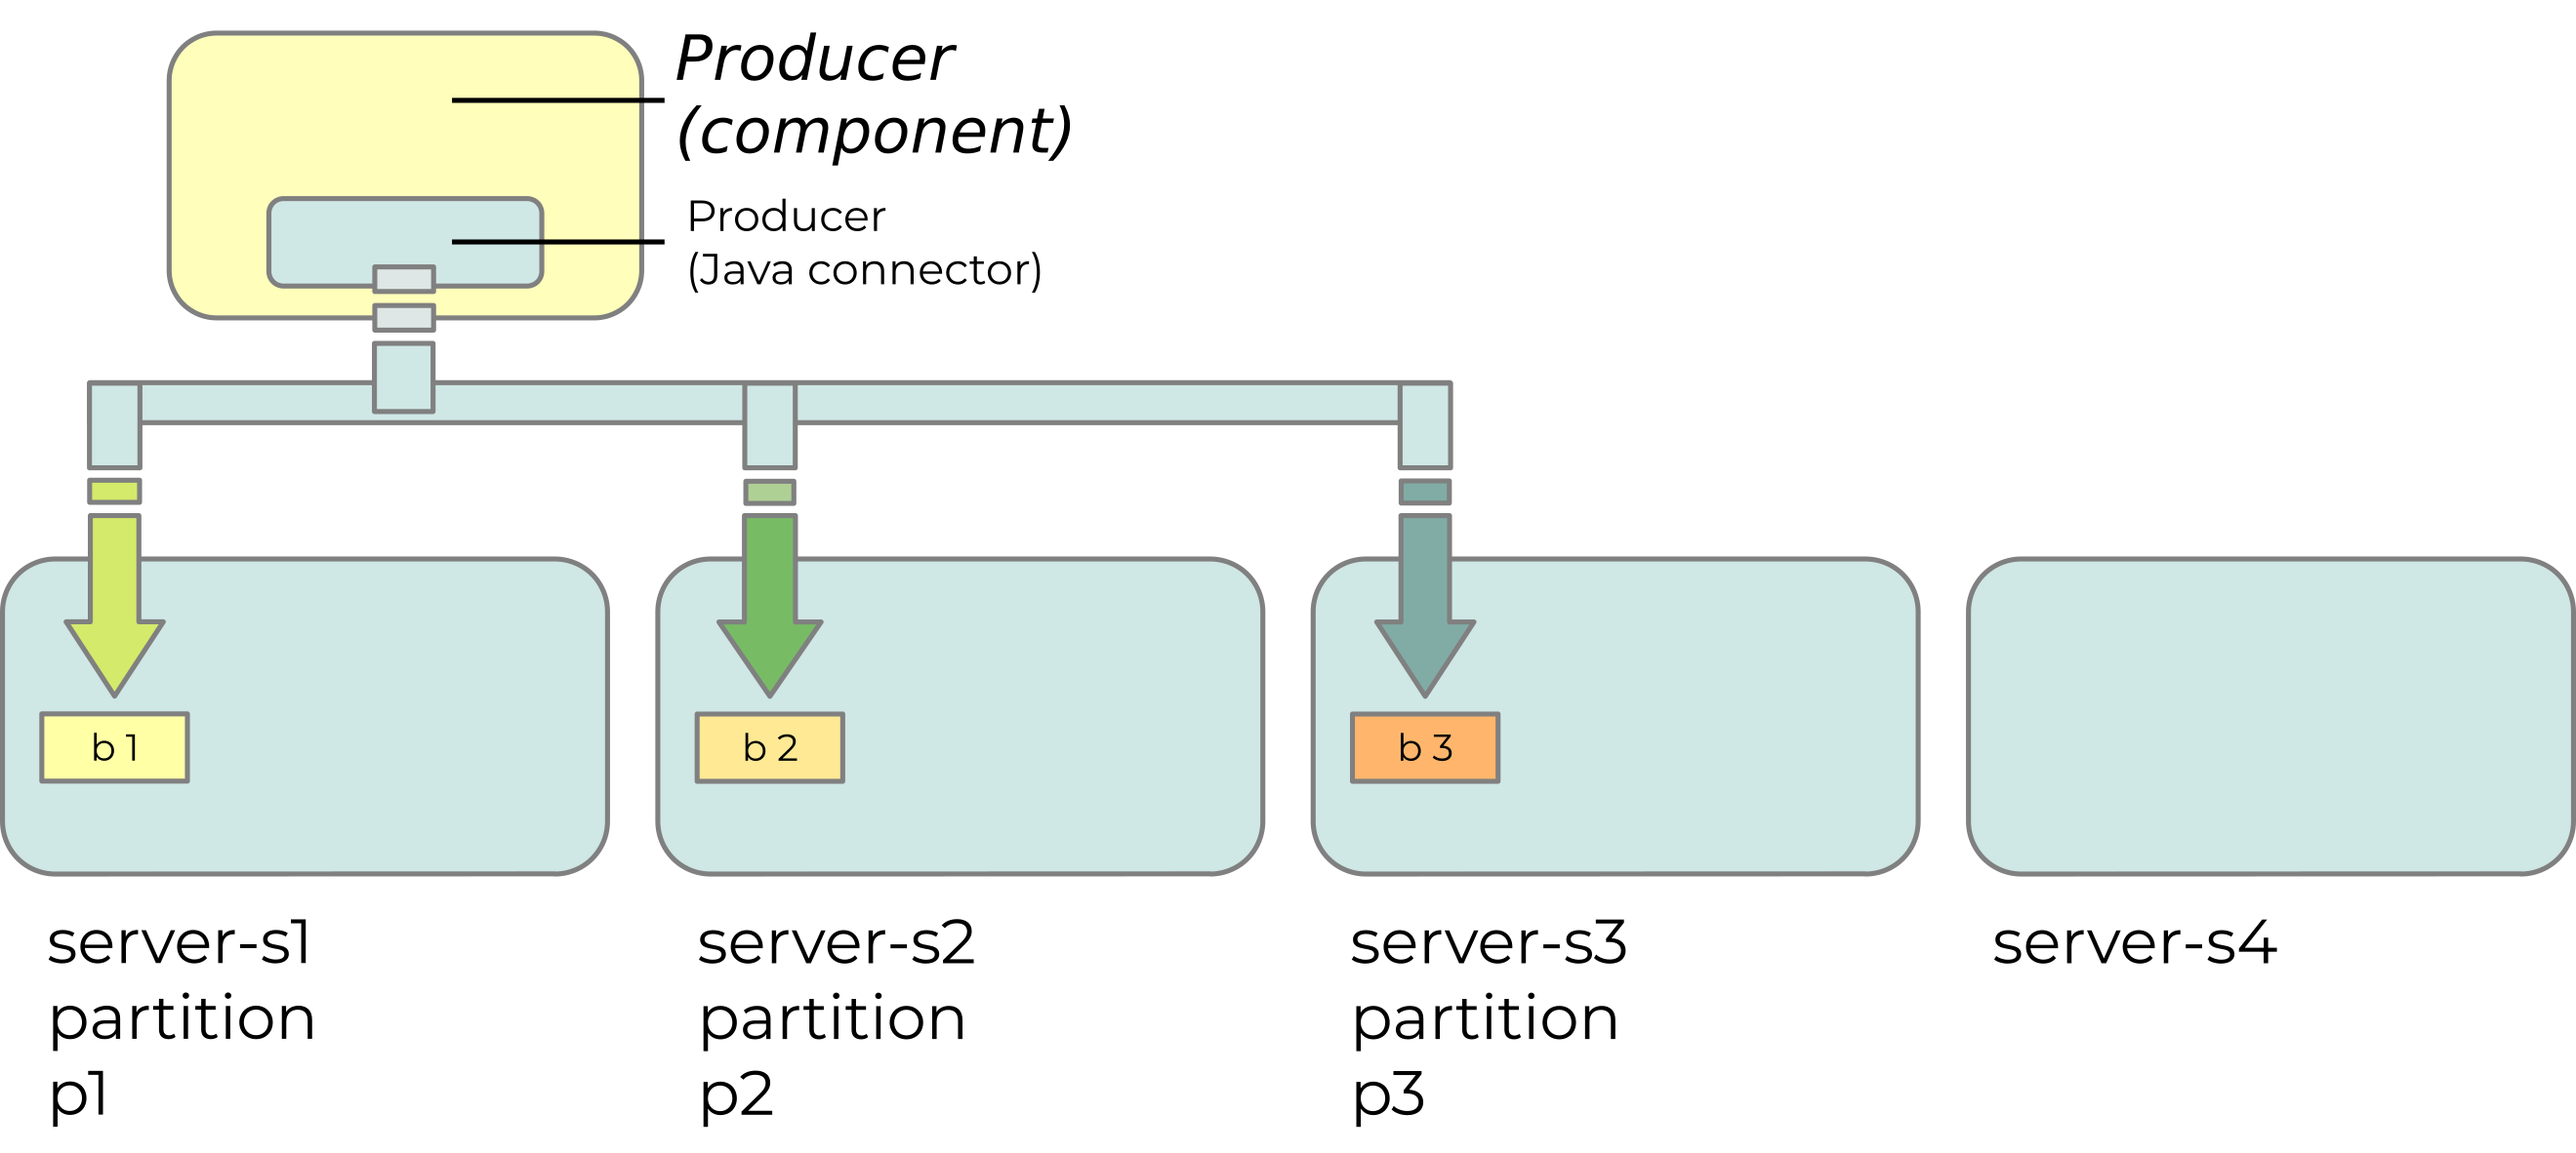
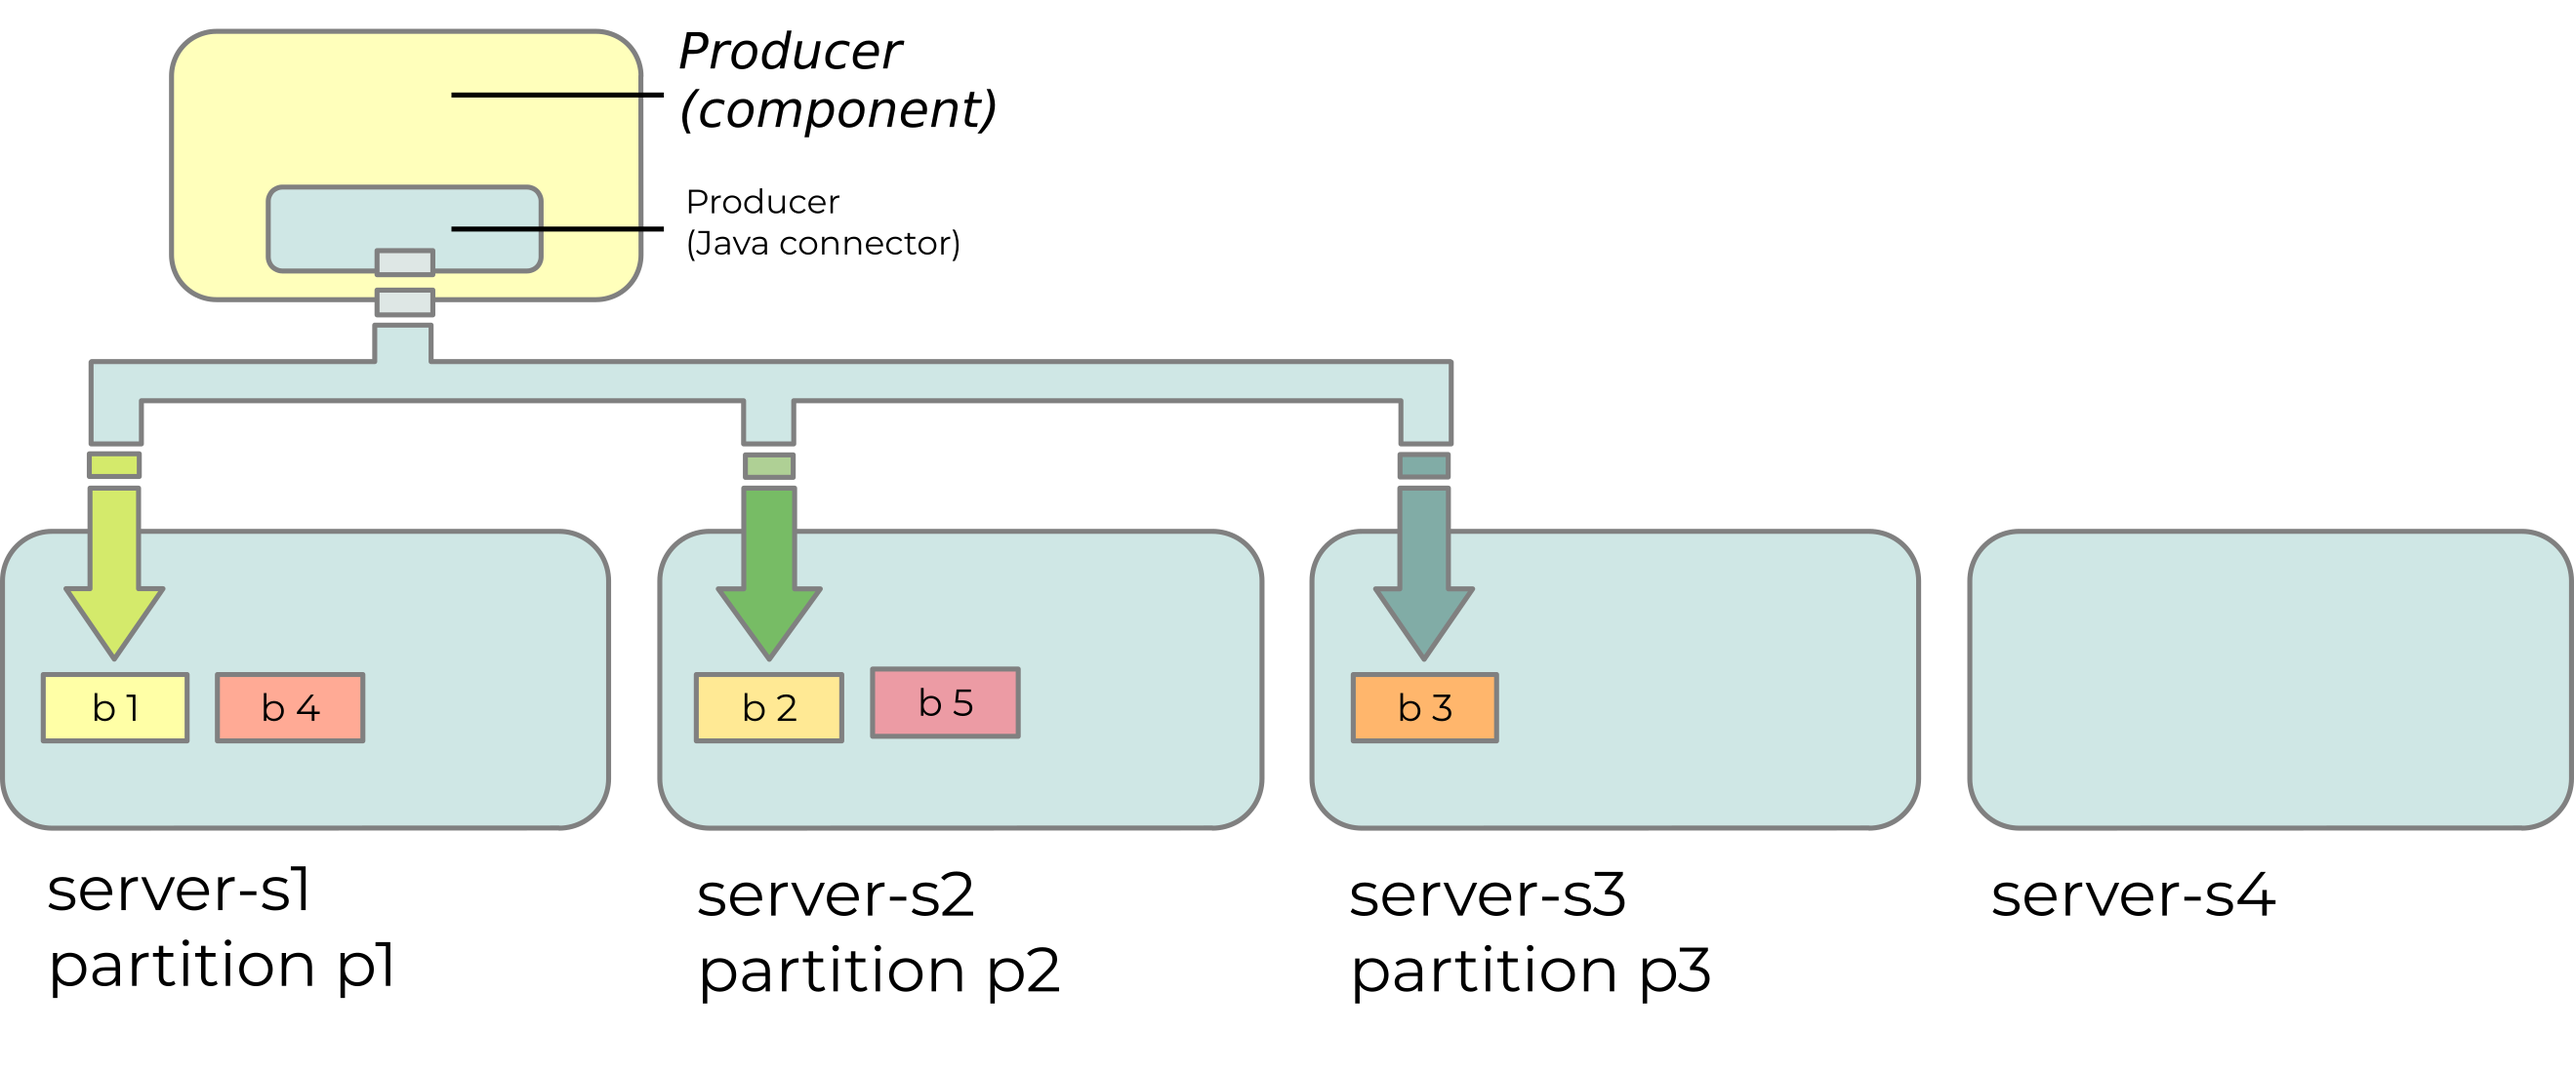
Updates from Overleaf

diff --git a/main.tex b/main.tex
@@ -51,6 +51,7 @@
 \newcommand{\dnsmasq} {\texttt{dnsmasq}\xspace}
 \newcommand{\dns} {DNS\xspace}
 \newcommand{\dhcp} {DCHP\xspace}
+\newcommand{\ceph} {Ceph\xspace}
 \newcommand{\cephfs} {CephFS\xspace}
 
 \newcommand{\ischnura} {Ischnura\xspace}
@@ -1611,7 +1612,7 @@ This section reports on lessons learned from our experience of working with \kaf
 In this scenario, \kafka is the service in the middle, the \kfbroker that provides the message delivery system. The \kfproducer and \kfconsumer are clients, external and separate from the \kafka \kfbroker.
 
 The \kafka \kfbroker does not know where the messages come from, or what happens to them after they are delivered.
-The \kafka \kfbroker concentrates purely on listening for messages from the \kfproducers, storing them in a buffer and forwarding them on to \kfconsumers.
+The \kafka \kfbroker concentrates purely on listening for messages from \kfproducers, storing them in a buffer and forwarding them on to \kfconsumers.
 
 \subsection{Publish-subscribe pattern}
 \label{kafka-pubsub-pattern}
@@ -1808,15 +1809,15 @@ Using a gateway \kfbroker like this enables the \lsstuk project to maintain a lo
 
 A \kafka server stores data for a topic as a set of log files which are split into \kfpartitions and distributed across the servers in a cluster.
 
-The number of \kfpartitions is set by the client when the topic is created and the \javaname{Producer} class from the client library is responsible for distributing the data across the \kfpartitions.
+The number of \kfpartitions is set by the client when the topic is created and the \javaname{Producer} class from the client library is responsible for distributing the data across \kfpartitions.
 
-\begin{figure}[hbt!]
-\centering
-\includegraphics{images/kafka-partitions-01.png}
+%\begin{figure}[H]
+%\centering
+%\includegraphics{images/kafka-partitions-01.png}
 %\includesvg{images/kafka-partitions-01.svg}
-\caption{Client \javaname{Producer} distributes messages to \kfpartitions}
-\label{fig:kafka-partitions-01}
-\end{figure}
+%\caption{Client \javaname{Producer} distributes messages to %\kfpartitions}
+%\label{fig:kafka-partitions-01}
+%\end{figure}
 
 The total number of log files is set by the number of \kfpartitions multiplied by the replication factor set for that topic.
 If a topic has four \kfpartitions, and a replication factor of three, then the data will be spread across 12 log files.
@@ -1824,7 +1825,7 @@ If this topic is served by four servers, then each server will be allocated thre
 
 The \javaname{Producer} client connector writes each \kfpartition to one server. Replicating the data to the other servers in the cluster is handled internally by server to server transfers.
 
-\begin{figure}[hbt!]
+\begin{figure}[H]
 \centering
 \includegraphics{images/kafka-partitions-03.png}
 %\includesvg{images/kafka-partitions-03.svg}
@@ -1842,7 +1843,7 @@ If we lose one of the machines, server-s2 for example, the system still has two 
 
 If we replace server-2 with an empty machine, the three missing log files can be recovered using data from the other servers.
 
-\begin{figure}[hbt!]
+\begin{figure}[H]
 \centering
 \includegraphics{images/kafka-partitions-04.png}
 %\includesvg{images/kafka-partitions-04.svg}
@@ -1859,13 +1860,12 @@ However, we did encounter a couple of issues that system administrators should b
 
 If the \kafka system is deployed on an \openstack cloud platform, then a fairly common way to manage storage space for the \kafka nodes is to use the Cinder\footurl{https://docs.openstack.org/cinder/latest/} block storage service to provide virtual discs on each node.
 
-A fairly common way of implementing the Cinder block storage service for an \openstack deployment is to use a \cephfs\footurl{https://docs.ceph.com/docs/master/cephfs/} 
-service to aggregate storage space across the network to provide a distributed file system for Cinder to use\footurl{https://docs.openstack.org/cinder/pike/configuration/block-storage/drivers/ceph-rbd-volume-driver.html}.
+A fairly common way of implementing the Cinder block storage service for an \openstack deployment is to use a \ceph\footurl{https://docs.ceph.com/} service to aggregate storage space across the network to provide a distributed file system for Cinder to use\footurl{https://docs.openstack.org/cinder/pike/configuration/block-storage/drivers/ceph-rbd-volume-driver.html}.
 
-A \cephfs service may itself use data replication to improve the reliability of the distributed file system.
-As a result, the combination of default configurations may mean that the data is replicated twice. Once by \kafka itself and again by the underlying \cephfs service used by \openstack.
+The \ceph service may itself use data replication to improve the reliability of the distributed file system.
+As a result, the combination of default configurations may mean that the data is replicated twice. Once by \kafka itself and again by the underlying \ceph service used by \openstack.
 
-This is not always a problem, and in fact using RAID replication for the \cephfs distributed file system can improve the performance of the system.
+This is not always a problem, and in fact using RAID replication for the \ceph distributed file system can improve the performance of the system.
 
 In theory it is possible for \openstack users to control the level of replication that is used for Cinder volumes. However, exposing the volume type configuration options to end users is not necessarily available on all \openstack deployments.
 
@@ -1919,20 +1919,19 @@ The key issue that needs to be considered is the number of \kfpartitions for eac
 
 If the \kftopic is configured to have only three \kfpartitions, the \kfproducer will distribute the data to each of the three \kfpartitions in turn.
 
-If we simplify the distribution process to a round-robin selection, then the first block of messages will be sent to \kfpartition 1 on the first node, the second block is sent to \kfpartition 2 on the second node, and the third block is sent to \kfpartition 3 on the third node.
+The messages are sent to the servers in blocks. The number of messages in each block is determined by the size of the individual messages and the size of the transmit buffers configured on the client and servers.
+If we simplify the distribution process to a round-robin selection, then the first block of messages will be sent to \kfpartition 1 on the first server, the second block is sent to \kfpartition 2 on the second server, and the third block is sent to \kfpartition 3 on the third server.
 
-The fourth block of messages are not sent the fourth node because the \kftopic is configured to have only three \kfpartitions.
-Instead the fourth block is sent to \kfpartition 1 on the first node, the fifth to \kfpartition 2 on the second node and the sixth block to \kfpartition 3 on the third node.
+The fourth block of messages are not sent the fourth server because the \kftopic is configured to have only three \kfpartitions.
+Instead the fourth block is sent to \kfpartition 1 on the first server, the fifth to \kfpartition 2 on the second server, and so on.
 
-\begin{figure}[hbt!]
+\begin{figure}[H]
 \centering
 \includegraphics{images/kafka-partitions-05.png}
 %\includesvg{images/kafka-partitions-05.svg}
-%\caption{Client \javaname{Producer} distributes messages to partitions}
+\caption{5 blocks distributed over 3 partitions}
 \label{fig:kafka-partitions-05}
 \end{figure}
-
-\textbf{TODO} - update the diagram to show \kfpartitions and nodes
 
 In this configuration, with more nodes than \kfpartitions, the fourth node does not have any \kfpartitions allocated to it.
 In reality, the replication factor would normally be greater than one, so internal replication would spread copies of the data between the four nodes, and so the fourth node would get a share of the data.
@@ -1940,29 +1939,11 @@ However, to simplify this example we are only tracking the primary copies for ea
 
 If we increase the \kfpartition count to four, then the \kfpartitions are spread evenly across all four nodes.
 
-If the \kfproducer sends six blocks of data, they are spread as evenly as possible between the four \kfpartitions; \kfpartitions 1 and 2 will get two data blocks each and \kfpartitions 3 and 4 will get just one data block.
-
-\begin{figure}[hbt!]
-\centering
-\includegraphics{images/kafka-partitions-06.png}
-%\includesvg{images/kafka-partitions-06.svg}
-%\caption{Client \javaname{Producer} distributes messages to partitions}
-\label{fig:kafka-partitions-06}
-\end{figure}
-
-\textbf{TODO} - update the diagram to show \kfpartitions and nodes
+If the \kfproducer sends six blocks of messages they are spread as evenly as possible between the four \kfpartitions; \kfpartitions 1 and 2 will get two data blocks each and \kfpartitions 3 and 4 will get just one data block.
 
 With five \kfpartitions, then three of the four nodes would have one \kfpartition each, and one of the nodes would have two \kfpartitions.
 
 With six \kfpartitions, then two of the have two \kfpartitions and two of the servers have one \kfpartition.
-
-\begin{figure}[hbt!]
-\centering
-\includegraphics{images/kafka-partitions-08.png}
-%\includesvg{images/kafka-partitions-08.svg}
-%\caption{Client \javaname{Producer} distributes messages to partitions}
-\label{fig:kafka-partitions-07}
-\end{figure}
 
 As the number of \kfpartitions increases, the data is spread more evenly across the nodes.
 With 25 \kfpartitions, three of the four nodes would have six
@@ -1973,16 +1954,12 @@ The same process of distributing data between resources applies to \kfconsumers 
 
 Starting with our first example, three \kfpartitions spread across four nodes. If we have a single consumer, then data from all four \kfpartitions are sent to the same consumer.
 
-\textbf{TODO} - diagram
-
 If we add a second consumer, then one \kfconsumer would receive data for two of the \kfpartitions and one \kfconsumer would receive data for the remaining \kfpartition.
 Note that \kafka will not share data from a \kfpartition between \kfconsumers, so it will not allocate one and a half \kfpartitions of data to each of the two \kfconsumers.
 
-If we have three consumers, then each consumer handles data from one \kfpartition.
+If we have three consumers, then each consumer receives data from one \kfpartition.
 
 If we have four consumers, then three of the consumers each get data from a \kfpartition, and the fourth consumer does not receive any data.
-
-\textbf{TODO} - diagram
 
 Increasing the number of \kfconsumers beyond the number of \kfpartitions results in idle \kfconsumers with no data sent to them.
 
@@ -2029,7 +2006,7 @@ The worst case is the short period at the start when the first \kfconsumer subsc
 
 If the first \kfconsumer fails due to an out of memory error, then the \kafka \kfbroker will automatically re-assign the \kfpartitions assigned to the failed \kfconsumer to other \kfconsumers. It is possible for this situation to cascade, overloading the second \kfconsumer, which fails, re-assigning all the \kfpartitions to the third \kfconsumer, which fails, and so on.
 
-In order to cause this cascade of errors we had to deliberately configure our \kfconsumer clients with a tiny amount of resources, much less than would normally be allocated to a virtual machine.
+In order to cause this cascade of errors we had to deliberately configure our \kfconsumer clients with a tiny amount of resources, much less than normal.
 However, as with the other edge cases described above, it is worth system administrators trying this experiment to recognise the symptoms in the \kfbroker error logs and how to recover from this situation on a production system.
 
 \printbibliography
